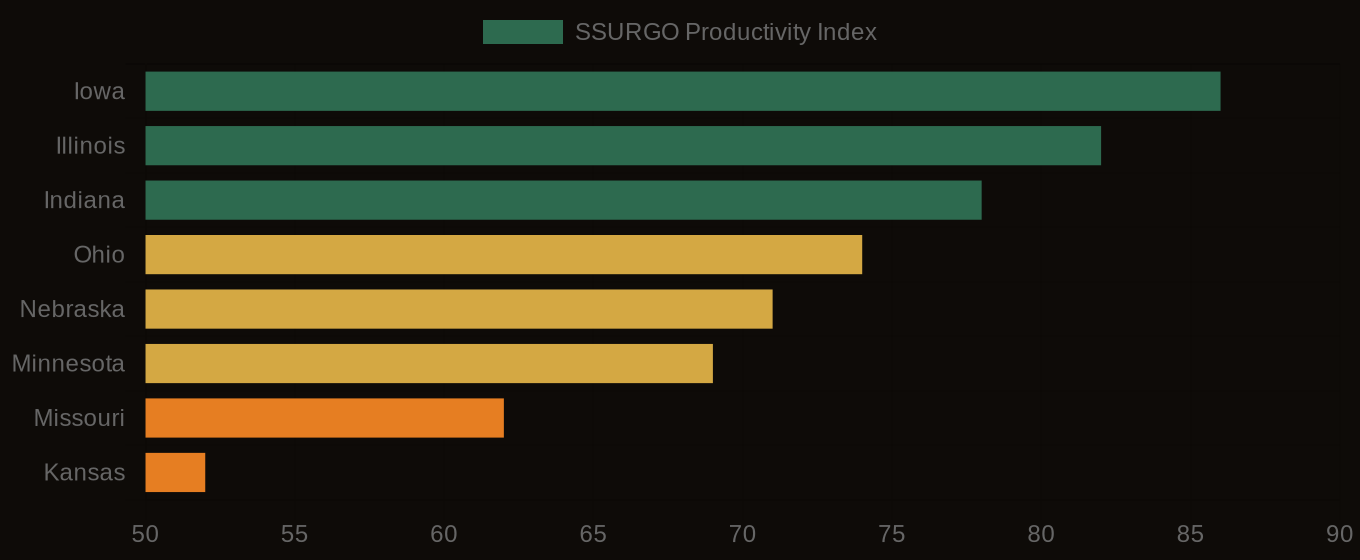
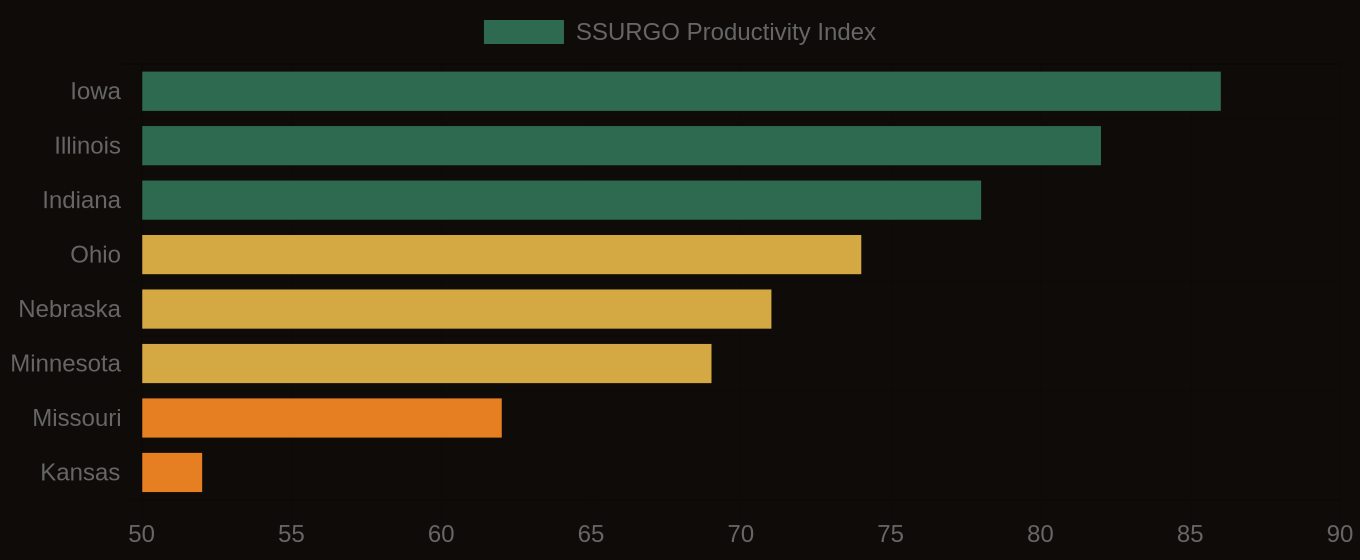
content: publish -- Soil Data Is the Cheapest Form of Geotechnical Intelligence

diff --git a/articles/soil-data-is-the-cheapest-form-of-geotechnical-intelligence-1780595467955.html b/articles/soil-data-is-the-cheapest-form-of-geotechnical-intelligence-1780595467955.html
@@ -3,7 +3,7 @@
 <head>
 <meta charset="UTF-8">
 <meta name="viewport" content="width=device-width, initial-scale=1.0">
-<title>Soil Data Is the Cheapest Form of Geotechnical Intelligence - Lab10YR</title>
+<title>Soil Data Is the Cheapest Form of Geotechnical Intelligence &mdash; Lab10YR</title>
 <meta name="description" content="A Phase I environmental site assessment costs thousands of dollars.  Nothing, in contrast, is the cost of a SSURGO query, which runs in seconds. ">
 <link rel="canonical" href="https://lab10yr.com/articles/soil-data-is-the-cheapest-form-of-geotechnical-intelligence-1780595467955">
 <meta property="og:type" content="article">
@@ -25,7 +25,7 @@
 <script src="https://cdn.jsdelivr.net/npm/echarts@5/dist/echarts.min.js" defer id="echarts-js"></script>
 <style>
 *{box-sizing:border-box;margin:0;padding:0}
-:root{--gold:#f59e0b;--gold2:#fcd34d;--rust:#c0392b;--bg:#08080c;--bg2:#101018;--muted:#8a7a6a;--soft:#c8beb4;--ff-serif:'Playfair Display',Georgia,serif;--ff-mono:'DM Mono',monospace;--ff-sans:'DM Sans',system-ui,sans-serif;}
+:root{--gold:#c8973a;--gold2:#e8c46a;--rust:#c0392b;--bg:#0e0b08;--bg2:#13100d;--muted:#8a7a6a;--soft:#c8beb4;--ff-serif:'Playfair Display',Georgia,serif;--ff-mono:'DM Mono',monospace;--ff-sans:'DM Sans',system-ui,sans-serif;}
 html{scroll-behavior:smooth}
 body{background:var(--bg);color:#f0ede8;font-family:Georgia,'Times New Roman',serif;line-height:1.78}
 #progress{position:fixed;top:0;left:0;height:2px;background:var(--gold);z-index:200;width:0;transition:width .1s linear}
@@ -141,16 +141,23 @@ h1{font-family:var(--ff-serif);font-size:clamp(2.2rem,4.2vw,3.8rem);line-height:
 @media(max-width:900px){nav{padding:0 16px}.hero-grid{grid-template-columns:1fr;padding:0 20px;gap:32px}.hero-waffle-wrap{display:none}#article-wrap{grid-template-columns:1fr;padding:48px 20px 0}.sidebar{display:none}.callout-row{grid-template-columns:1fr}#article-footer{padding-left:20px;padding-right:20px}}
 .data-table-wrap{margin:20px 0 4px;overflow-x:auto}.data-table{width:100%;border-collapse:collapse;font-family:var(--ff-mono);font-size:10px}.data-table th{text-align:left;color:var(--gold);font-size:8px;letter-spacing:.12em;text-transform:uppercase;padding:7px 10px;border-bottom:1px solid #3a2e20}.data-table td{padding:6px 10px;border-bottom:1px solid #1e1710;color:var(--soft)}.data-table tr:hover td{background:#13100d}.data-val{color:#f0ede8;font-weight:600;text-align:right}.data-table-source{font-family:var(--ff-mono);font-size:8px;color:#5a4a3a;letter-spacing:.06em;margin-top:5px;text-align:right}
 </style>
-<link rel="stylesheet" href="../assets/lab10yr-theme.css?v=20260723b">
 </head>
 <body>
 <div id="progress"></div>
-<nav id="nav"><a class="nav-link" href="/articles/" style="display:none">Articles</a></nav>
+<nav>
+  <a href="https://lab10yr.com" class="nav-brand"><span>Lab</span>10<em style="font-style:normal;color:var(--gold2)">YR</em></a>
+  <div class="nav-links">
+    <a href="https://lab10yr.com/Regenerative-Agriculture-Risk-Map" rel="noopener noreferrer">Risk Map</a>
+    <a href="https://lab10yr.com/soil-data-stories" rel="noopener noreferrer">Data Stories</a>
+    <a href="https://lab10yr.com/articles/" rel="noopener noreferrer">Articles</a>
+    <a href="https://lab10yr.com/#contact" class="nav-cta" rel="noopener noreferrer">Get in Touch</a>
+  </div>
+</nav>
 
 <section id="hero">
   <div class="hero-grid">
     <div>
-      <div class="hero-kicker">Lab10YR - Soil Intelligence</div>
+      <div class="hero-kicker">Lab10YR &mdash; Soil Intelligence</div>
       <h1>Soil Data Is the Cheapest Form of Geotechnical Intelligence</h1>
       <p class="hero-deck">A Phase I environmental site assessment costs thousands of dollars.  Nothing, in contrast, is the cost of a SSURGO query, which runs in seconds. </p>
       <div class="hero-byline">
@@ -161,7 +168,7 @@ h1{font-family:var(--ff-serif);font-size:clamp(2.2rem,4.2vw,3.8rem);line-height:
       </div>
     </div>
     <div class="hero-waffle-wrap">
-      <div class="waffle-label">Soil productivity class - U.S. cropland map units</div>
+      <div class="waffle-label">Soil productivity class — U.S. cropland map units</div>
       <div class="waffle-grid" id="waffle"></div>
       <div class="waffle-legend"><div class="wl"><div class="wl-swatch wc-none"></div> Prime</div><div class="wl"><div class="wl-swatch wc-slight"></div> High</div><div class="wl"><div class="wl-swatch wc-mod-frag"></div> Moderate</div><div class="wl"><div class="wl-swatch wc-fragile"></div> Low/Marginal</div></div>
       <div class="waffle-stat">42%</div>
@@ -172,7 +179,7 @@ h1{font-family:var(--ff-serif);font-size:clamp(2.2rem,4.2vw,3.8rem);line-height:
 
 <section id="hero-viz">
   <figure class="hero-viz-fig">
-    <img src="social-soil-data-is-the-cheapest-form-of-geotechnical-intelligence-1780595467955.png" alt="Soil Data Is the Cheapest Form of Geotechnical Intelligence - Lab10YR data visualization" loading="eager" width="1200" height="627">
+    <img src="social-soil-data-is-the-cheapest-form-of-geotechnical-intelligence-1780595467955.png" alt="Soil Data Is the Cheapest Form of Geotechnical Intelligence — Lab10YR data visualization" loading="eager" width="1200" height="627">
   </figure>
 </section>
 
@@ -182,10 +189,10 @@ h1{font-family:var(--ff-serif);font-size:clamp(2.2rem,4.2vw,3.8rem);line-height:
     <p class="dropcap">A Phase I environmental site assessment costs thousands of dollars. 
 Nothing, in contrast, is the cost of a SSURGO query, which runs in seconds. 
 This disparity is striking, given the critical role soil data plays in land finance. Soil survey data, like that found in the SSURGO database, reveals geotechnical risks that threaten project viability.</p>
-    <p>The SSURGO database, maintained by the National Cooperative Soil Survey, offers a comprehensive look at soil conditions across the United States. It covers all 50 states and U.S. territories with over 315,543 map units, providing a detailed picture of soil quality and fragility. Notably, 13.3% of rated map units carry a Fragile or higher FSI rating, indicating a significant risk of soil instability. This information is vital for real estate developers and project finance teams, as it informs site investigation and due diligence efforts.</p>
+    <p>The SSURGO database, maintained by the USDA-NRCS, offers a comprehensive look at soil conditions across the United States. It covers all 50 states and U.S. territories with over 315,543 map units, providing a detailed picture of soil health and fragility. Notably, 13.3% of rated map units carry a Fragile or higher FSI rating, indicating a significant risk of soil instability. This information is vital for real estate developers and project finance teams, as it informs site investigation and due diligence efforts.</p>
   </div>
 
-  <div class="pull"><div class="pull-text">“13.3% - of rated SSURGO map units carry a Fragile or higher FSI rating.”</div><div class="pull-attr">Lab10YR Analysis - SSURGO National Dataset</div></div>
+  <div class="pull"><div class="pull-text">“13.3% — of rated SSURGO map units carry a Fragile or higher FSI rating.”</div><div class="pull-attr">Lab10YR Analysis — SSURGO National Dataset</div></div>
 
   
   <div class="article-section">
@@ -208,19 +215,19 @@ This leads to more targeted and effective site investigation and mitigation effo
   </div>
 
   <div class="echarts-section">
-    <h2 class="echarts-title">Soil Productivity Index vs. Cash Rent - Corn Belt States</h2>
-    <div class="echarts-subtitle">SSURGO PI ratings (x-axis) vs. avg cash rent $/acre (y-axis) · SSURGO + national cash-rent data</div>
+    <h2 class="echarts-title">Soil Productivity Index vs. Cash Rent — Corn Belt States</h2>
+    <div class="echarts-subtitle">SSURGO PI ratings (x-axis) vs. avg cash rent $/acre (y-axis) · USDA ERS + SSURGO</div>
     <div class="echarts-wrap">
       <div id="echarts-main" style="height:320px"></div>
     </div>
-    <div class="echarts-source">Source: SSURGO PI ratings (x-axis) vs. avg cash rent $/acre (y-axis) · SSURGO + national cash-rent data</div>
+    <div class="echarts-source">Source: SSURGO PI ratings (x-axis) vs. avg cash rent $/acre (y-axis) · USDA ERS + SSURGO</div>
     
   </div>
 
   <div class="article-section">
     <div class="section-rule"><h2>States at Greatest Risk</h2></div>
     <div class="state-bars">
-      <div class="state-bars-title">Corn Belt states - Average SSURGO Productivity Index (0-100 scale)</div>
+      <div class="state-bars-title">Corn Belt states — Average SSURGO Productivity Index (0–100 scale)</div>
       <div id="state-bars-list"></div>
     </div>
     <p>Soil intelligence is a powerful tool for managing risk and optimizing returns in land finance. 
@@ -231,14 +238,14 @@ Tapping into the SSURGO database's wealth of information enables developers and 
   </div>
 
   <div class="map-section">
-    <h2>Soil Productivity Index - Farmland Investment Map</h2>
+    <h2>Soil Productivity Index — Farmland Investment Map</h2>
     <div class="map-caption">Average SSURGO Productivity Index by state · Source: SSURGO national dataset</div>
     <img class="map-chart" src="state-chart-soil-data-is-the-cheapest-form-of-geotechnical-intelligence-1780595467955.png" alt="Iowa 86%, Illinois 82%, Indiana 78%, Ohio 74%, Nebraska 71%, Minnesota 69%, Missouri 62%, Kansas 52%" loading="lazy">
     <div class="map-wrap">
       <div id="state-map"></div>
       <div id="map-tip" class="map-tip"></div>
     </div>
-    <div class="map-note">Interactive map - hover for state-level data &middot; click to open the full risk map</div>
+    <div class="map-note">Interactive map &mdash; hover for state-level data &middot; click to open the full risk map</div>
   </div>
 
   <div class="article-section">
@@ -247,8 +254,8 @@ Tapping into the SSURGO database's wealth of information enables developers and 
   </div>
 
   <div class="map-cta-full">
-    <a href="https://lab10yr.com/Regenerative-Agriculture-Risk-Map.html" target="_blank" rel="noopener noreferrer" class="map-btn">&#x1F5FA; Explore the Soil Risk Map &rarr;</a>
-    <div class="map-cta-desc">County-level soil productivity index, OM depletion, and fragile soil risk - live SSURGO data lookup for any farmland parcel.</div>
+    <a href="https://lab10yr.com/soil-fragility-map." target="_blank" rel="noopener noreferrer" class="map-btn">&#x1F5FA; Explore the Soil Risk Map &rarr;</a>
+    <div class="map-cta-desc">County-level soil productivity index, OM depletion, and fragile soil risk — live SSURGO data lookup for any farmland parcel.</div>
   </div>
 </article>
 
@@ -256,15 +263,15 @@ Tapping into the SSURGO database's wealth of information enables developers and 
   <div class="sidebar-block">
     <div class="sidebar-label">Iowa PI</div>
     <div class="sidebar-stat-num">86</div>
-    <div class="sidebar-stat-label">Average SSURGO Productivity Index - highest in the Corn Belt, drives top cash rents nationally</div>
+    <div class="sidebar-stat-label">Average SSURGO Productivity Index — highest in the Corn Belt, drives top cash rents nationally</div>
   </div><div class="sidebar-block">
     <div class="sidebar-label">Rent Premium</div>
     <div class="sidebar-stat-num">34%</div>
-    <div class="sidebar-stat-label">avg premium paid for High vs. Moderate PI farmland in the Corn Belt - most buyers lack SSURGO data to verify</div>
+    <div class="sidebar-stat-label">avg premium paid for High vs. Moderate PI farmland in the Corn Belt — most buyers lack SSURGO data to verify</div>
   </div><div class="sidebar-block">
     <div class="sidebar-label">OM Depletion</div>
     <div class="sidebar-stat-num">71.6%</div>
-    <div class="sidebar-stat-label">of rated map units show Mod. High or High OM depletion - the unpriced liability in most farmland appraisals</div>
+    <div class="sidebar-stat-label">of rated map units show Mod. High or High OM depletion — the unpriced liability in most farmland appraisals</div>
   </div>
   <div class="sidebar-block">
     <div class="sidebar-label">Explore the Data</div>
@@ -295,7 +302,7 @@ Tapping into the SSURGO database's wealth of information enables developers and 
     <a href="https://lab10yr.com/Regenerative-Agriculture-Risk-Map" target="_blank" rel="noopener noreferrer">Regenerative Agriculture Risk Map &rarr;</a>
     <a href="https://lab10yr.com/soil-data-stories" target="_blank" rel="noopener noreferrer">The World Beneath: 7-Chapter Data Story on America&rsquo;s Soils &rarr;</a>
     <a href="https://lab10yr.com/county-risk-leaderboard" target="_blank" rel="noopener noreferrer">County Risk Leaderboard &rarr;</a>
-    <a href="https://lab10yr.com/soil-atlas" target="_blank" rel="noopener noreferrer">Soil Atlas - Interactive National Soil Pattern Explorer &rarr;</a>
+    <a href="https://lab10yr.com/soil-atlas" target="_blank" rel="noopener noreferrer">Soil Atlas &mdash; Interactive National Soil Pattern Explorer &rarr;</a>
   </div>
 </div>
 
@@ -308,9 +315,9 @@ document.addEventListener('DOMContentLoaded',()=>{if(typeof maplibregl!=='undefi
 function stateColor(d){const om=d.om||0;return om>=90?'rgba(192,57,43,0.75)':om>=70?'rgba(230,126,34,0.65)':om>=50?'rgba(200,151,58,0.5)':om>0?'rgba(200,151,58,0.3)':'rgba(30,23,16,0.4)';}
 function initMap(){if(!document.getElementById('state-map')||window._mi)return;window._mi=true;const map=new maplibregl.Map({container:'state-map',style:{version:8,sources:{c:{type:'raster',tiles:['https://basemaps.cartocdn.com/dark_nolabels/{z}/{x}/{y}.png'],tileSize:256,attribution:'&copy; CARTO &copy; OSM'}},layers:[{id:'c',type:'raster',source:'c'}]},center:[-98,38],zoom:3.4,maxZoom:8,minZoom:2,attributionControl:false});map.addControl(new maplibregl.AttributionControl({compact:true}));map.addControl(new maplibregl.NavigationControl({showCompass:false}),'top-right');const sd={'NV':{fsi:0.521,om:98},'AZ':{fsi:0.495,om:99},'UT':{fsi:0.41,om:92},'NM':{fsi:0.38,om:87},'WY':{fsi:0.32,om:65},'CO':{fsi:0.29,om:75},'ID':{fsi:0.27,om:55},'MT':{fsi:0.24,om:45},'CA':{fsi:0.22,om:60},'TX':{fsi:0.21,om:96},'OR':{fsi:0.20,om:48},'WA':{fsi:0.19,om:42},'KS':{fsi:0.16,om:70},'NE':{fsi:0.15,om:65},'OK':{fsi:0.14,om:72},'SD':{fsi:0.18,om:38},'ND':{fsi:0.17,om:35},'MN':{fsi:0.13,om:25},'IA':{fsi:0.12,om:22},'MO':{fsi:0.11,om:30},'IL':{fsi:0.10,om:28},'IN':{fsi:0.09,om:26},'OH':{fsi:0.09,om:24},'MI':{fsi:0.08,om:22}};const fp={'32':'NV','04':'AZ','49':'UT','35':'NM','56':'WY','08':'CO','16':'ID','30':'MT','06':'CA','48':'TX','41':'OR','53':'WA','20':'KS','31':'NE','40':'OK','46':'SD','38':'ND','27':'MN','19':'IA','29':'MO','17':'IL','18':'IN','39':'OH','26':'MI'};map.on('load',()=>{fetch('/articles/us-states-topo.json').then(r=>r.json()).then(topo=>{const gj=topojson.feature(topo,topo.objects.states);gj.features.forEach(f=>{const a=fp[f.id]||'';const d=sd[a]||{};f.properties.abbr=a;f.properties.fsi=d.fsi||0;f.properties.om=d.om||0;f.properties.color=stateColor(d);});map.addSource('states',{type:'geojson',data:gj});map.addLayer({id:'sf',type:'fill',source:'states',paint:{'fill-color':['get','color'],'fill-outline-color':'rgba(200,151,58,0.25)'}});map.addLayer({id:'sl',type:'line',source:'states',paint:{'line-color':'rgba(200,151,58,0.2)','line-width':0.5}});const tip=document.getElementById('map-tip');map.on('mousemove','sf',e=>{const f=e.features[0];if(!f){tip.style.display='none';return;}map.getCanvas().style.cursor='pointer';const a=f.properties.abbr,fsi=f.properties.fsi,om=f.properties.om;tip.innerHTML=a?`<strong>${a}</strong><br>OM Depletion: ${om?om+"%":"n/a"}<br>Avg FSI: ${fsi?fsi.toFixed(3):"n/a"}`:'<em>No data</em>';tip.style.display='block';});map.on('mouseleave','sf',()=>{map.getCanvas().style.cursor='';tip.style.display='none';});map.on('click','sf',()=>{window.open('https://lab10yr.com/Regenerative-Agriculture-Risk-Map','_blank','noopener');});}).catch(e=>console.error('Map load failed:',e));});}
 (function(){document.querySelectorAll('.callout-num').forEach(function(el){var raw=el.textContent.trim();var m=raw.match(/^(d[d.,]*)/);if(!m)return;var num=parseFloat(m[1].replace(/,/g,''));var suffix=raw.slice(m[1].length);var dec=raw.indexOf('.')>=0?1:0;el.textContent='0'+suffix;new IntersectionObserver(function(entries,obs){if(!entries[0].isIntersecting)return;obs.disconnect();var t=null;function step(ts){if(!t)t=ts;var p=Math.min((ts-t)/900,1);var e=1-Math.pow(1-p,3);el.textContent=(e*num).toFixed(dec)+suffix;if(p<1)requestAnimationFrame(step);else el.textContent=num.toFixed(dec).replace(/.0$/,'')+suffix;}requestAnimationFrame(step);},{threshold:0.6}).observe(el);});})();
-(function(){const u=encodeURIComponent(location.href),t=encodeURIComponent(document.title.replace(' - Lab10YR',''));document.getElementById('share-x').href='https://twitter.com/intent/tweet?url='+u+'&text='+t+'&via=lab10yr';document.getElementById('share-li').href='https://www.linkedin.com/sharing/share-offsite/?url='+u;document.getElementById('share-copy').addEventListener('click',function(){navigator.clipboard.writeText(location.href).then(()=>{this.textContent='Copied!';setTimeout(()=>this.textContent='Copy Link',2000);});});})();
+(function(){const u=encodeURIComponent(location.href),t=encodeURIComponent(document.title.replace(' — Lab10YR',''));document.getElementById('share-x').href='https://twitter.com/intent/tweet?url='+u+'&text='+t+'&via=lab10yr';document.getElementById('share-li').href='https://www.linkedin.com/sharing/share-offsite/?url='+u;document.getElementById('share-copy').addEventListener('click',function(){navigator.clipboard.writeText(location.href).then(()=>{this.textContent='Copied!';setTimeout(()=>this.textContent='Copy Link',2000);});});})();
 (function(){
-  const cfg={"backgroundColor":"transparent","grid":{"left":60,"right":30,"top":30,"bottom":60,"containLabel":true},"xAxis":{"type":"value","name":"SSURGO Productivity Index (0-100 scale)","nameLocation":"middle","nameGap":40,"axisLabel":{"color":"#8a7a6a","fontSize":10},"nameTextStyle":{"color":"#8a7a6a","fontSize":10},"splitLine":{"lineStyle":{"color":"#1e1710"}}},"yAxis":{"type":"value","name":"Average Cash Rent ($/acre)","nameLocation":"middle","nameGap":55,"axisLabel":{"color":"#8a7a6a","fontSize":10},"nameTextStyle":{"color":"#8a7a6a","fontSize":10},"splitLine":{"lineStyle":{"color":"#1e1710"}}},"tooltip":{"trigger":"item","backgroundColor":"#13100d","borderColor":"#3a2e20","textStyle":{"color":"#f0ede8","fontSize":11}},"series":[{"type":"scatter","data":[[86,248,"Iowa"],[82,232,"Illinois"],[78,196,"Indiana"],[74,174,"Ohio"],[71,188,"Nebraska"],[69,178,"Minnesota"],[62,118,"Missouri"],[64,148,"Wisconsin"],[58,126,"South Dakota"],[55,118,"North Dakota"],[52,104,"Kansas"]],"itemStyle":{"opacity":0.85},"label":{"show":true,"position":"top","color":"#c8beb4","fontSize":9}}]};
+  const cfg={"backgroundColor":"transparent","grid":{"left":60,"right":30,"top":30,"bottom":60,"containLabel":true},"xAxis":{"type":"value","name":"SSURGO Productivity Index (0–100 scale)","nameLocation":"middle","nameGap":40,"axisLabel":{"color":"#8a7a6a","fontSize":10},"nameTextStyle":{"color":"#8a7a6a","fontSize":10},"splitLine":{"lineStyle":{"color":"#1e1710"}}},"yAxis":{"type":"value","name":"Average Cash Rent ($/acre)","nameLocation":"middle","nameGap":55,"axisLabel":{"color":"#8a7a6a","fontSize":10},"nameTextStyle":{"color":"#8a7a6a","fontSize":10},"splitLine":{"lineStyle":{"color":"#1e1710"}}},"tooltip":{"trigger":"item","backgroundColor":"#13100d","borderColor":"#3a2e20","textStyle":{"color":"#f0ede8","fontSize":11}},"series":[{"type":"scatter","data":[[86,248,"Iowa"],[82,232,"Illinois"],[78,196,"Indiana"],[74,174,"Ohio"],[71,188,"Nebraska"],[69,178,"Minnesota"],[62,118,"Missouri"],[64,148,"Wisconsin"],[58,126,"South Dakota"],[55,118,"North Dakota"],[52,104,"Kansas"]],"itemStyle":{"opacity":0.85},"label":{"show":true,"position":"top","color":"#c8beb4","fontSize":9}}]};
   function tryInit(){
     const el=document.getElementById('echarts-main');
     if(!el||!window.echarts||window._ec)return;
@@ -342,6 +349,5 @@ window.addEventListener('load',function(){
   }
 });
 </script>
-<script src="../js/lab10yr-nav.js?v=20260723b" defer></script>
 </body>
 </html>

diff --git a/articles/index.html b/articles/index.html
@@ -493,7 +493,7 @@ footer span{font-family:var(--ff-mono);font-size:9px;color:#2a1e0f}
     <a href="/articles/soil-data-is-the-cheapest-form-of-geotechnical-intelligence-1780595467955" class="card-link">
       <div class="card-meta">
         <span class="card-date">June 4, 2026</span>
-        <span class="card-tag">Soil Intelligence</span>
+        <span class="card-tag">Soil</span>
         <span class="card-read">6 min read</span>
       </div>
       <h2 class="card-title">Soil Data Is the Cheapest Form of Geotechnical Intelligence</h2>
